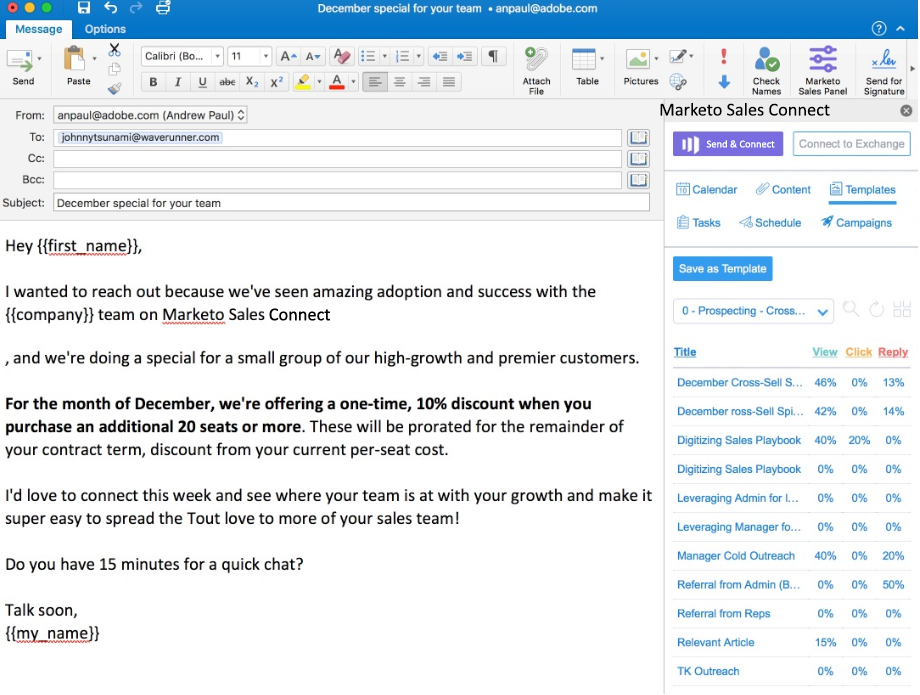
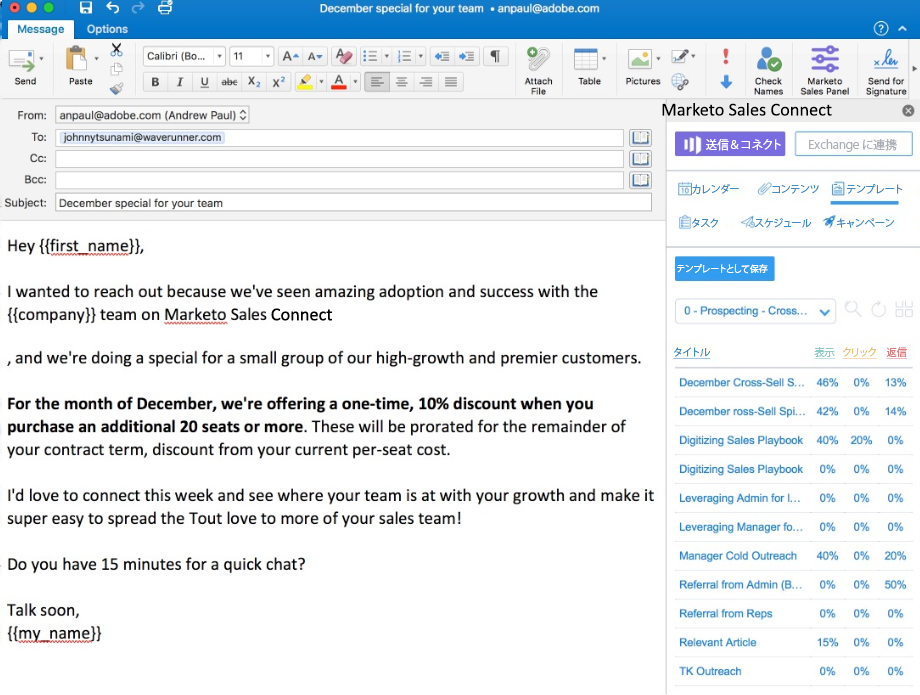
Updated by task 'AUTO_HANDOFF_1728042576155'  Changes for core/source commit https://git.corp.adobe.com/AdobeDocs/marketo.en/commit/88a553f7b1e0bde24e62502c2daf7fd04f58087d

diff --git a/help/marketo/product-docs/marketo-sales-connect/email-plugins/msc-for-outlook/office-365-add-in/install-the-sales-connect-email-plugin-for-outlook.md b/help/marketo/product-docs/marketo-sales-connect/email-plugins/msc-for-outlook/office-365-add-in/install-the-sales-connect-email-plugin-for-outlook.md
@@ -1,17 +1,17 @@
 ---
 unique-page-id: 14352455
-description: Sales Connect Email Plugin for Outlook のインストール - Marketo ドキュメント – 製品ドキュメント
-title: Outlook 用 Sales Connect メール・プラグインのインストール
+description: Outlook 用 Sales Connect メールプラグインのインストール - Marketo ドキュメント - 製品ドキュメント
+title: Outlook 用 Sales Connect メールプラグインのインストール
 exl-id: ff741d1b-caa5-49c3-b1e0-afd69c283e8c
 feature: Marketo Sales Connect
 source-git-commit: 1cc876285f8d7ac7a21a763dd65da34341341a0e
-workflow-type: tm+mt
+workflow-type: ht
 source-wordcount: '199'
-ht-degree: 55%
+ht-degree: 100%
 
 ---
 
-# Sales Connect Email Plugin for Outlook （Online、Mac、Windows）のインストール {#install-the-sales-connect-email-plugin-for-outlook}
+# Outlook（Online、Mac および Windows）用 Sales Connect メールプラグインのインストール {#install-the-sales-connect-email-plugin-for-outlook}
 
 Outlook web App との統合を作成しました。Outlook web App は、Office 365 サブスクリプションが付属する Outlook のバージョンです。ブラウザーベースなので、統合は Mac と Windows の両方で動作します。[完全なインストールガイドについては、ここをクリックしてください](https://s3.amazonaws.com/tout-user-store/outlook-mac/assets/install_tout_add-in_outlook_mac.pdf)。
 
@@ -19,17 +19,17 @@ Outlook web App との統合を作成しました。Outlook web App は、Office
 
 >[!IMPORTANT]
 >
->Gmail と Outlook 用のメールプラグインは、Marketo Sales Connect ユーザーでのみサポートされています。 Sales Insight Actions ユーザーではサポートされていま **ん**。
+>Gmail および Outlook 用メールプラグインは、Marketo Sales Connect ユーザのみがサポートされます。これらは、Sales Insight アクションユーザにはサポート&#x200B;**されません**。
 
 >[!NOTE]
 >
 >ストアボタンがない場合は、最新バージョンの Outlook for Mac を使用していません。次の手順に従って、更新を行います。
 >
->i. [ ヘルプ ] ボタン （上部のナビゲーションの [Outlook] の右側）に移動します
+>i. 「ヘルプ」ボタン（上部のナビゲーションで「Outlook」の右にある）に移動します。
 >
 >ii.ドロップダウンメニューで「**更新を確認**」を選択します。
 >
->iii.Outlook の最新バージョンに更新し、完了したら、次の手順に戻ります
+>iii.Outlook の最新バージョンに更新し、完了したら上記の手順に戻ります。
 
 ![](assets/install-the-sales-connect-email-plugin-for-outlook-1.png)
 

diff --git a/help/marketo/product-docs/demand-generation/landing-pages/landing-page-templates/guided-landing-page-templates/template-20e.md b/help/marketo/product-docs/demand-generation/landing-pages/landing-page-templates/guided-landing-page-templates/template-20e.md
@@ -5,7 +5,7 @@ title: テンプレート 20E
 exl-id: 37da2ba9-446b-4dee-8b15-a55b2636dd63
 feature: Landing Pages, Guided Landing Page Templates
 source-git-commit: dee8eb74b5d7f06f48f156a1c27e7aefc61f362a
-workflow-type: tm+mt
+workflow-type: ht
 source-wordcount: '45'
 ht-degree: 100%
 
